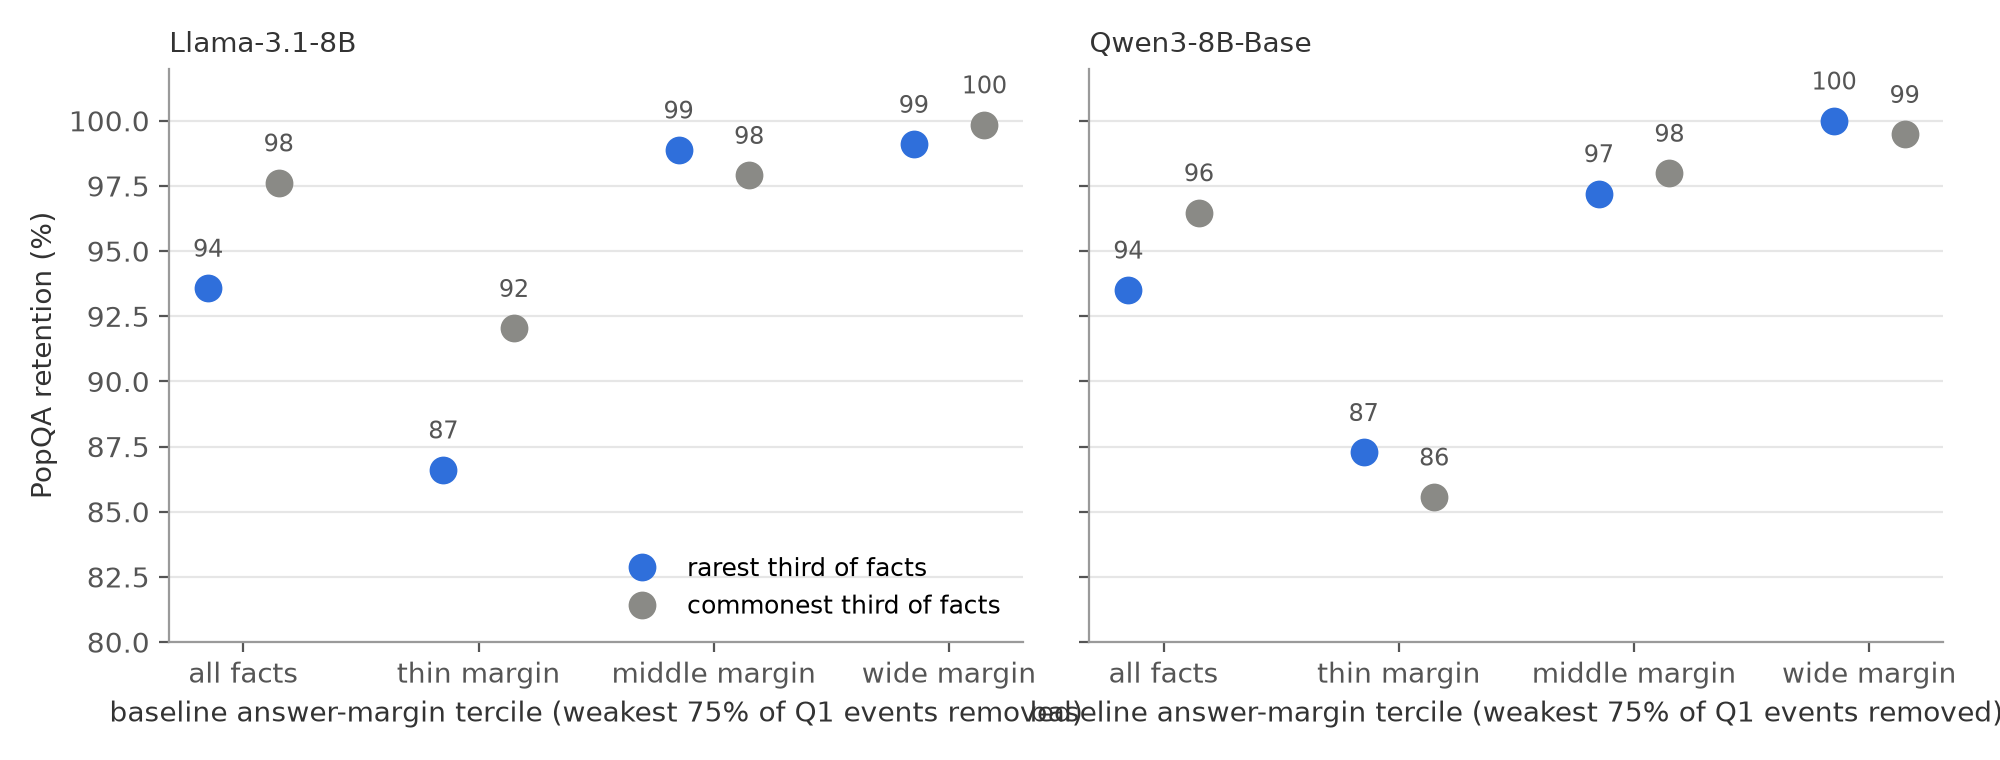
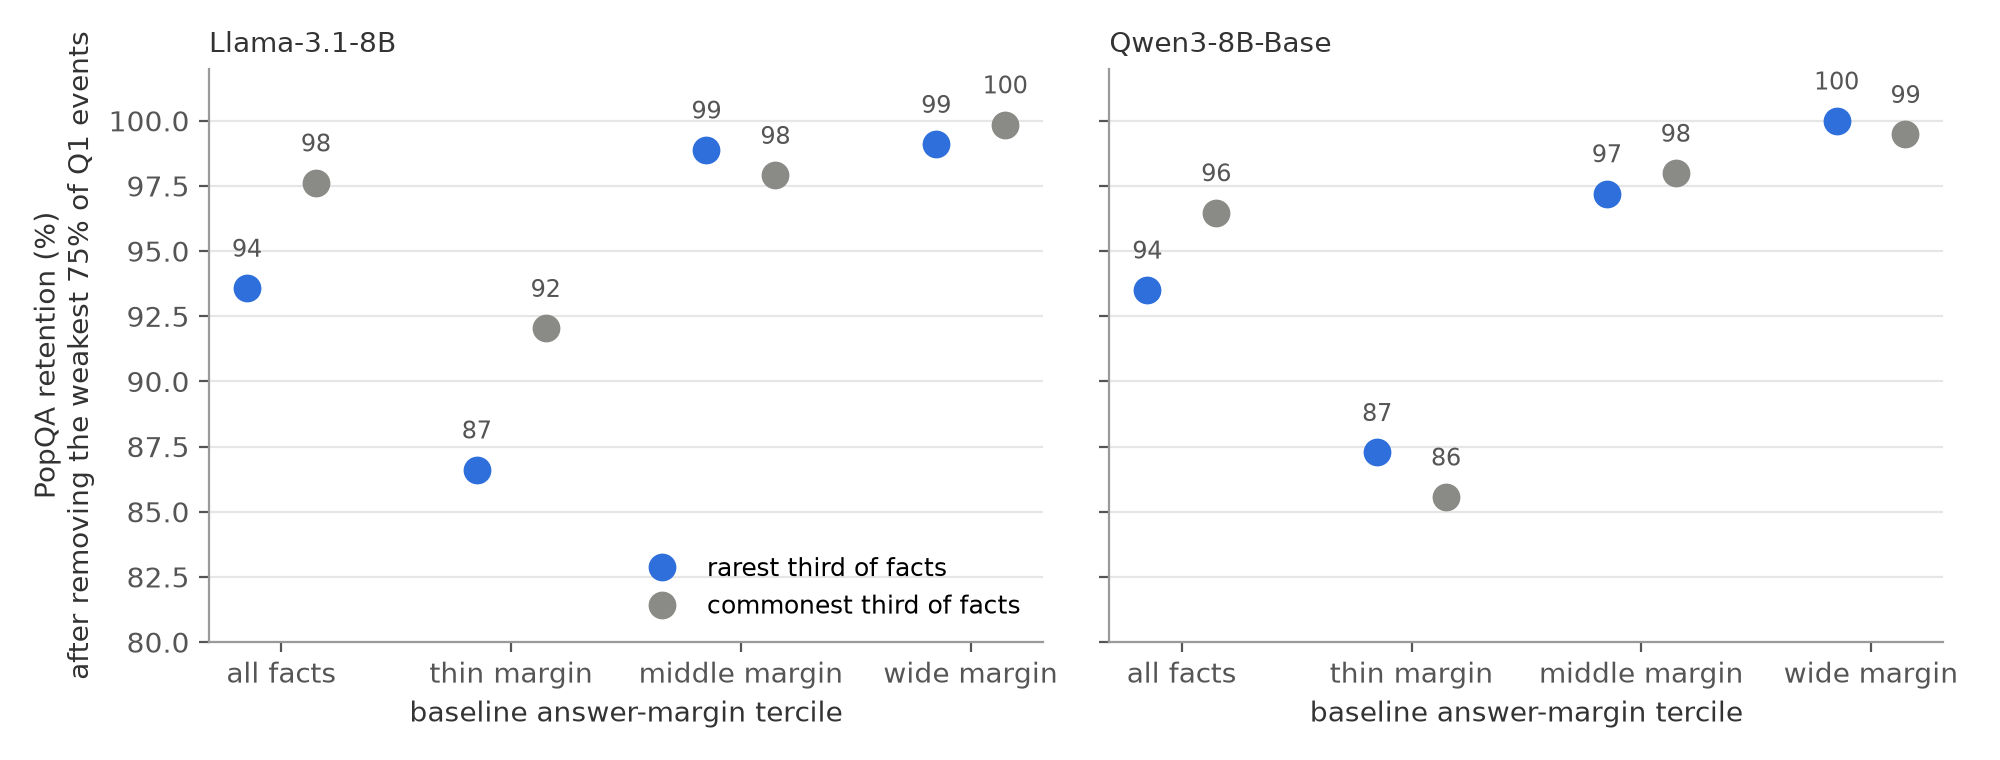
Figure label fix

diff --git a/src/make_figures.py b/src/make_figures.py
@@ -64,6 +64,6 @@ for ax, (tag, label) in zip(axes, TAGS):
     xr = [y[rare & mk].mean() * 100 for mk in masks]; xc = [y[common & mk].mean() * 100 for mk in masks]; x = np.arange(4)
     ax.plot(x - 0.15, xr, 'o', color=ACC, ms=9, label='rarest third of facts'); ax.plot(x + 0.15, xc, 'o', color=GREY, ms=9, label='commonest third of facts')
     for xi, (a, b) in enumerate(zip(xr, xc)): ax.text(xi - 0.15, a + 1.2, f'{a:.0f}', ha='center', fontsize=8.5, color='#555'); ax.text(xi + 0.15, b + 1.2, f'{b:.0f}', ha='center', fontsize=8.5, color='#555')
-    ax.set_xticks(x); ax.set_xticklabels(groups); ax.set_xlabel('baseline answer-margin tercile (weakest 75% of Q1 events removed)'); ax.set_ylim(80, 102); ax.grid(axis='y', color='#e6e6e6'); ax.set_title(label, loc='left', fontsize=10, color='#333')
-axes[0].set_ylabel('PopQA retention (%)'); axes[0].legend(frameon=False, fontsize=9, loc='lower right')
+    ax.set_xticks(x); ax.set_xticklabels(groups); ax.set_xlabel('baseline answer-margin tercile'); ax.set_ylim(80, 102); ax.grid(axis='y', color='#e6e6e6'); ax.set_title(label, loc='left', fontsize=10, color='#333')
+axes[0].set_ylabel('PopQA retention (%)\nafter removing the weakest 75% of Q1 events'); axes[0].legend(frameon=False, fontsize=9, loc='lower right')
 save(fig, 'rarity_vs_margin.png')
